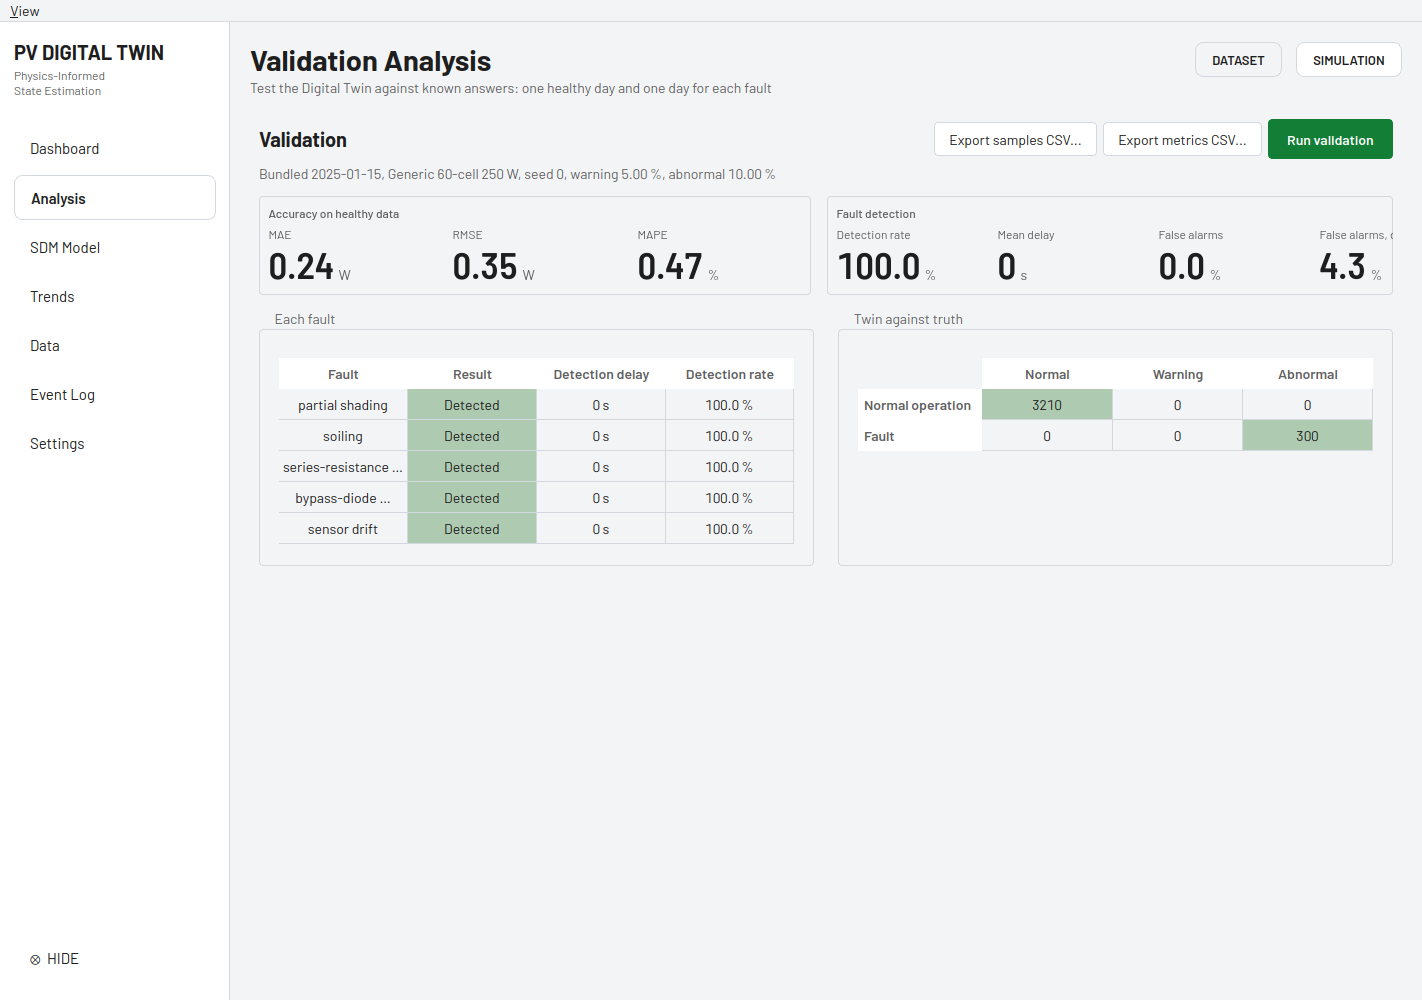
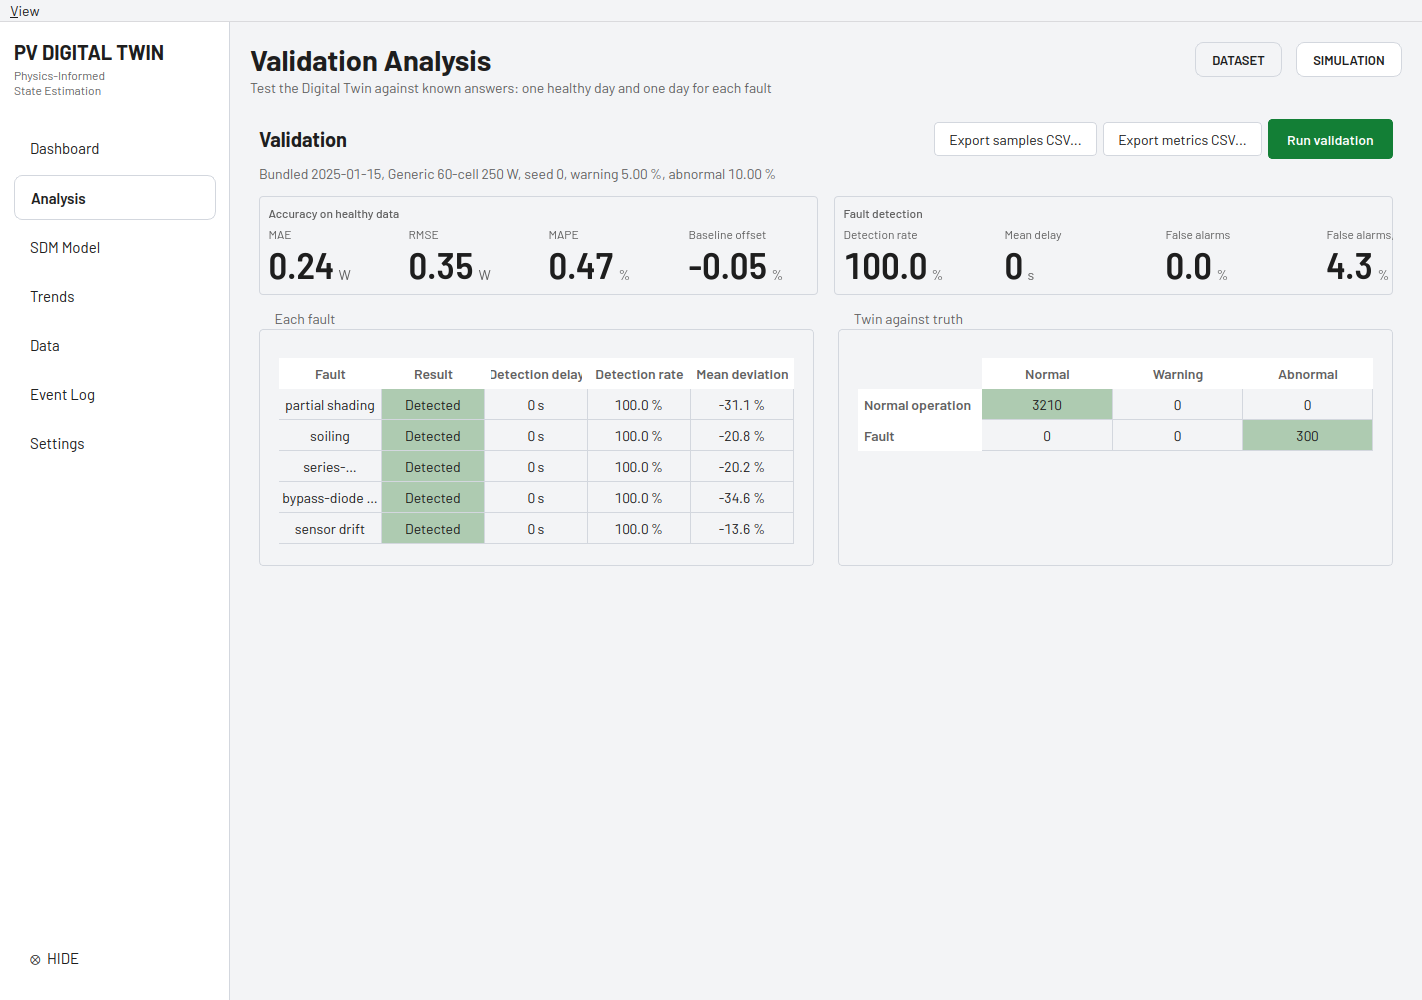
Document how the prediction is made, in the simple manual and the README
A new section covers the SDM equation, the fixed ideality factor, which operating point is compared in a run and in a dataset,
the ideal-tracker assumption, the plant's mismatch and baseline offset, and where the limits come from. The dataset chapter, the
Analysis results and the troubleshooting row follow the new prediction rule, and three screenshots are regenerated.

diff --git a/README.md b/README.md
@@ -223,7 +223,7 @@ I measured this with the faults injected at 10:00 on the bundled day at the defa
 - **Datasets and Excel.** A dataset is scored with the twin's nominal parameters from the rows' own irradiance and temperature, so it has no hidden truth and no injected faults. Only the first sheet of an `.xlsx` is read, and `.xls` is not supported. Imported datasets are copied into the user's data folder (`$XDG_DATA_HOME/pvysics/datasets` on Linux, `%APPDATA%\pvysics\datasets` on Windows, or `PVYSICS_DATASETS_DIR`) and are never removed except by **Delete dataset**. Replaying a dataset replaces the run in every window until a new run is applied.
 - No sun position or plane-of-array irradiance, and no hardware. There is no ESP32, serial or Wi-Fi link, and no WebSocket or network service. The in-process Qt signal bus stands in for the design's network bus.
 - Site fields (latitude, longitude, tilt, azimuth) are metadata only. They are stored and shown in the run summary and never enter the physics.
-- One module only: no strings, arrays, MPPT or load modelling.
+- One module only: no strings, arrays, MPPT or load modelling. A simulated run reads the plant at its own maximum power point (an ideal-tracker assumption) and predicts the maximum power. An imported dataset with voltage and current is predicted at the measured voltage; a power-only file is compared with the maximum power. The diode ideality factor is fixed at 1.3.
 - Fault severity is fixed at the defaults. The Setup screen cannot schedule faults; `RunConfig` accepts scheduled faults, but the Setup controls never fill them in.
 - Alarms persist after **Clear all** and are cleared only by **Reset** or **Apply and start**.
 - The Validation tab uses the setup that was last applied. After a change to the setup, the old result is marked stale until validation is run again.

diff --git a/.scratch/dataset-template-fix/issues/02-predict-at-the-measured-voltage.md b/.scratch/dataset-template-fix/issues/02-predict-at-the-measured-voltage.md
@@ -1,0 +1,21 @@
+# Imported datasets are predicted at the maximum power point, not at the measured voltage
+
+Status: resolved
+Found: 2026-10-30, from the lecturer's mid-term comment (evaluate the SDM at the measured terminal voltage, or state that an MPPT is used)
+
+## Change
+
+- `single_diode.power_at_voltage` gives V times the SDM current at a voltage.
+- `analyse_dataset` predicts a row with a voltage at that voltage; a row without one (a power-only file) is predicted at the
+  maximum power point. The module's maximum power per row is kept in `DatasetReport.mpp_power_w` and exported as `mpp_power_w`.
+- A simulated run still reads the plant at its own maximum power point and predicts the maximum power: an ideal-tracker
+  assumption, now stated in the manual and README.
+- Validation reports each fault's mean deviation and the healthy run's baseline offset (Analysis screen and metrics CSV).
+- Charts no longer rescale axis values with an SI prefix (a time axis read "(x0.001)").
+
+## Known limits
+
+- The daylight rule is unchanged: a row whose predicted power is under 5 W counts as night. At the measured voltage that
+  prediction can be small for a module held near 0 V or open circuit by day, so such a row is not scored.
+- No ambient-temperature model: the temperature column is taken as module temperature.
+- The ideality factor n is fixed at 1.3 (the mid-term report's Simulink model used 1.2); to be decided with the author.

diff --git a/.scratch/dataset-template-fix/issues/01-template-rows-exceed-module-limits.md b/.scratch/dataset-template-fix/issues/01-template-rows-exceed-module-limits.md
@@ -1,6 +1,6 @@
 # Dataset template example rows are physically impossible for the generic module
 
-Status: ready-for-agent
+Status: resolved
 Found: 2026-10-30, while checking a dashboard screenshot against a ChatGPT review
 
 ## Symptom
@@ -45,3 +45,4 @@ Debian builds and in the manual's Dataset chapter.
 ## Comments
 
 - Independent check by an OpenCode agent (DeepSeek V4.1 Flash Free) confirmed the arithmetic above.
+- Resolved in 4465e47 (template rows and tests). The follow-ups below were done in the next commits.
